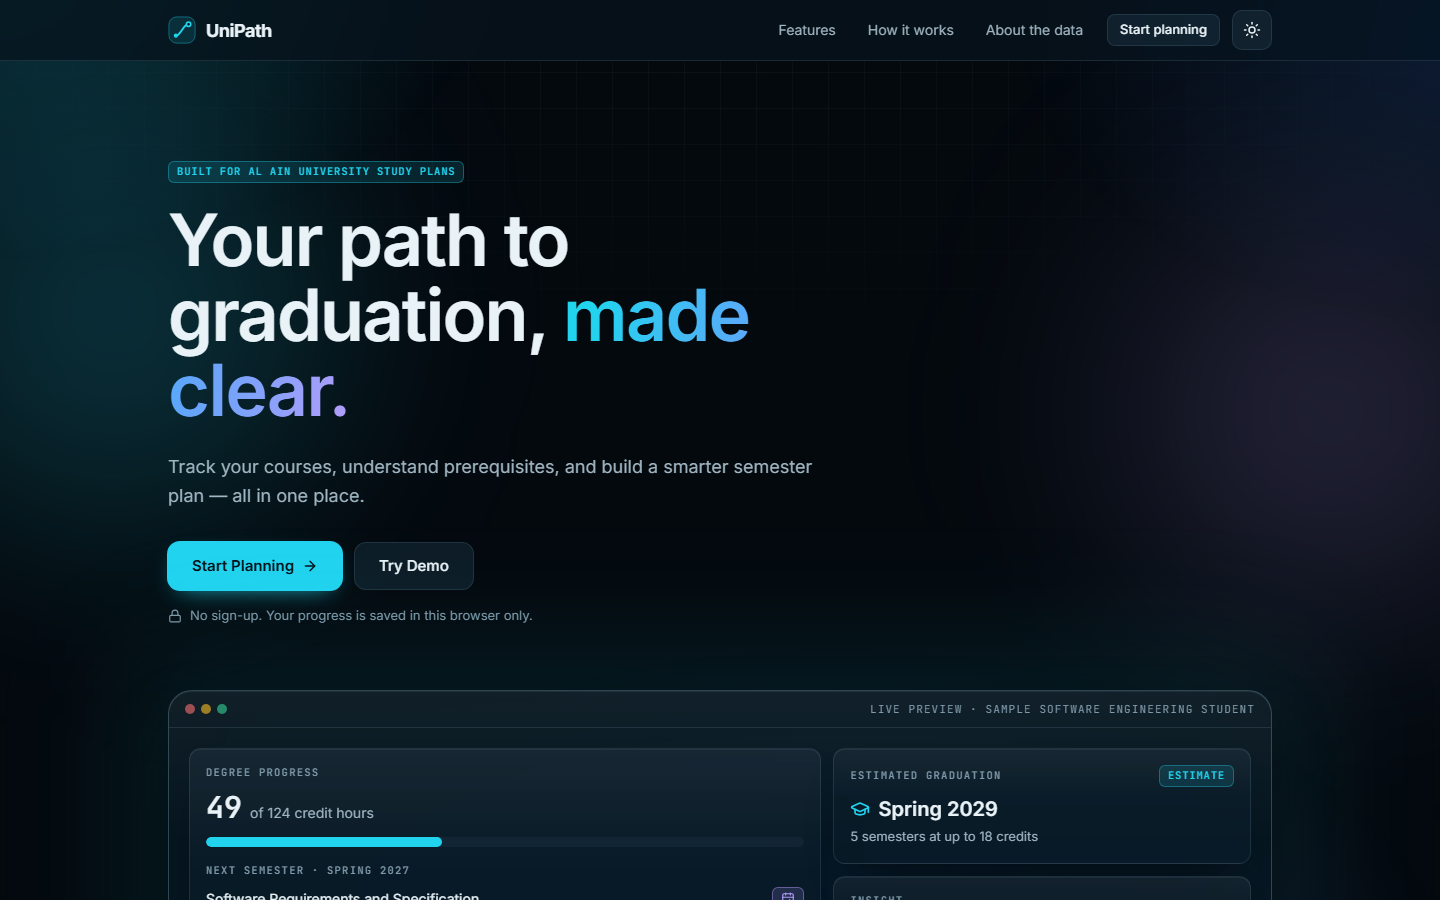
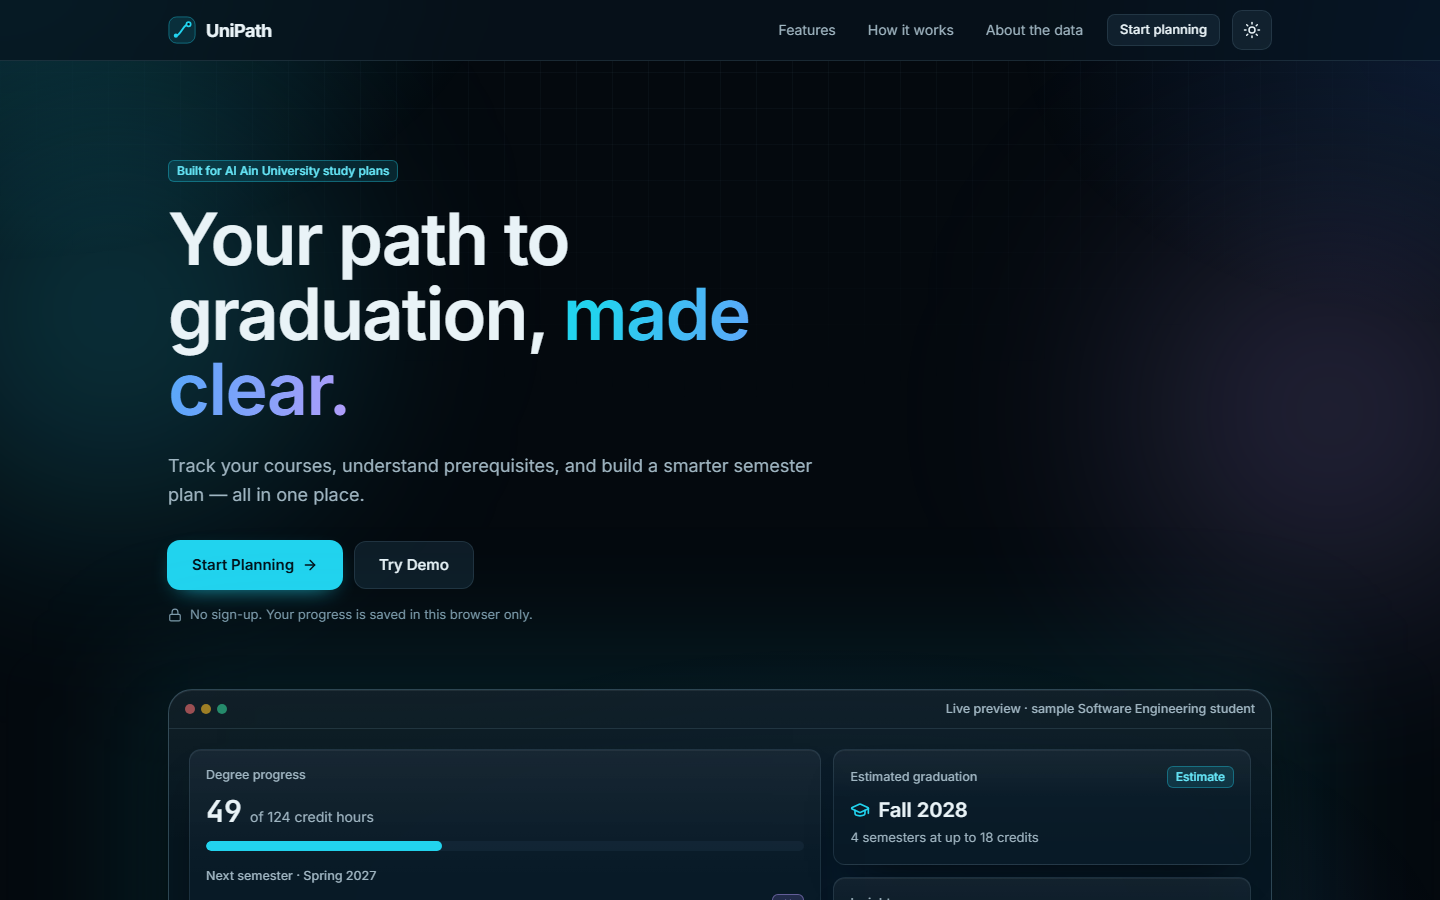
Fix the README screenshot layout and refresh the screenshots
The phone shot was a full-page capture in the same row as two desktop
shots, which stretched the row. Phone captures are now one screen tall
and shown side by side, desktop shots sit in a 2x2 grid of equal sizes,
and every screenshot is retaken from the current UI on a fixed morning.

diff --git a/e2e/screenshots.spec.ts b/e2e/screenshots.spec.ts
@@ -1,11 +1,16 @@
-import { expect, test } from "@playwright/test";
+import { expect, test, type Page } from "@playwright/test";
 
-// Captures submission screenshots into docs/screenshots. Run with: SCREENSHOTS=1 npx playwright test screenshots
+// Captures the README screenshots into docs/screenshots. Run with: SCREENSHOTS=1 npx playwright test screenshots
 test.skip(!process.env.SCREENSHOTS, "Set SCREENSHOTS=1 to capture screenshots");
 
-const pages = [
-  { name: "landing", path: "/" },
-  { name: "overview", path: "/overview" },
+// A Monday morning in Al Ain, so the sample student's day is still ahead of them and every capture shows the same day.
+const MORNING = new Date("2026-10-26T07:40:00+04:00");
+test.use({ timezoneId: "Asia/Dubai" });
+
+const desktopPages = [
+  { name: "home", path: "/overview" },
+  { name: "calendar", path: "/calendar" },
+  { name: "tasks", path: "/tasks" },
   { name: "courses", path: "/courses" },
   { name: "planner", path: "/planner" },
   { name: "roadmap", path: "/planner#roadmap" },
@@ -13,38 +18,56 @@ const pages = [
   { name: "gpa", path: "/gpa" },
 ];
 
-for (const viewport of [
-  { label: "desktop", width: 1440, height: 900 },
-  { label: "mobile", width: 390, height: 844 },
-]) {
-  test(`screenshots ${viewport.label}`, async ({ page }) => {
-    await page.setViewportSize({ width: viewport.width, height: viewport.height });
-    await page.goto("/demo");
-    await expect(page).toHaveURL(/\/overview$/);
-    for (const p of pages) {
-      await page.goto(p.path);
-      await page.waitForLoadState("networkidle");
-      await page.waitForTimeout(400);
-      const overflow = await page.evaluate(() => document.documentElement.scrollWidth - window.innerWidth);
-      expect(overflow, `${p.name} scrolls sideways`).toBeLessThanOrEqual(1);
-      await page.screenshot({ path: `docs/screenshots/${viewport.label}-${p.name}.png`, fullPage: viewport.label === "mobile" });
-    }
-    await page.goto("/planner#what-if");
-    await page.getByRole("button", { name: "Lighter load (12 credits)" }).click();
-    await page.waitForTimeout(300);
-    await page.screenshot({ path: `docs/screenshots/${viewport.label}-what-if.png`, fullPage: viewport.label === "mobile" });
-  });
+// Phone captures are one screen tall, so they line up side by side in the README.
+const mobilePages = [
+  { name: "home", path: "/overview" },
+  { name: "calendar", path: "/calendar" },
+  { name: "tasks", path: "/tasks" },
+  { name: "planner", path: "/planner" },
+];
+
+async function enterDemo(page: Page) {
+  await page.clock.install({ time: MORNING });
+  await page.goto("/demo");
+  await expect(page).toHaveURL(/\/overview$/);
 }
+
+async function capture(page: Page, path: string, file: string, before?: () => Promise<void>) {
+  await page.goto(path);
+  await page.waitForLoadState("networkidle");
+  if (before) await before();
+  // The demo notice is covered by the README text; leave it out of the pictures.
+  await page.evaluate(() => {
+    for (const el of document.querySelectorAll("div.border-b")) {
+      if (el.textContent?.includes("Demo mode.")) (el as HTMLElement).style.display = "none";
+    }
+  });
+  await page.mouse.move(0, 0);
+  await page.waitForTimeout(400);
+  const overflow = await page.evaluate(() => document.documentElement.scrollWidth - window.innerWidth);
+  expect(overflow, `${file} scrolls sideways`).toBeLessThanOrEqual(1);
+  await page.screenshot({ path: `docs/screenshots/${file}.png` });
+}
+
+test("screenshots desktop", async ({ page }) => {
+  await page.setViewportSize({ width: 1440, height: 900 });
+  await capture(page, "/", "desktop-landing");
+  await enterDemo(page);
+  for (const p of desktopPages) await capture(page, p.path, `desktop-${p.name}`);
+  await capture(page, "/planner#what-if", "desktop-what-if", () =>
+    page.getByRole("button", { name: "Lighter load (12 credits)" }).click(),
+  );
+});
+
+test("screenshots mobile", async ({ page }) => {
+  await page.setViewportSize({ width: 390, height: 844 });
+  await enterDemo(page);
+  for (const p of mobilePages) await capture(page, p.path, `mobile-${p.name}`);
+});
 
 test("screenshots light theme", async ({ page }) => {
   await page.setViewportSize({ width: 1440, height: 900 });
   await page.addInitScript(() => localStorage.setItem("unipath:theme", "light"));
-  await page.goto("/demo");
-  await expect(page).toHaveURL(/\/overview$/);
-  for (const p of [pages[0], pages[1], pages[5]]) {
-    await page.goto(p.path);
-    await page.waitForLoadState("networkidle");
-    await page.waitForTimeout(400);
-    await page.screenshot({ path: `docs/screenshots/light-${p.name}.png` });
-  }
+  await enterDemo(page);
+  for (const p of [desktopPages[0], desktopPages[6]]) await capture(page, p.path, `light-${p.name}`);
 });

diff --git a/README.md b/README.md
@@ -8,11 +8,20 @@ Built for **NextSpark Hacks 2026**. No account and no paid services. Everything 
 
 **Live demo: https://unipath-eight-peach.vercel.app** — click **Try Demo** to explore a sample student.
 
-![UniPath overview for the sample student](docs/screenshots/desktop-overview.png)
+![UniPath Home for the sample student: today's classes, priorities and degree progress](docs/screenshots/desktop-home.png)
 
-| Semester roadmap | What if? | Phone |
-| --- | --- | --- |
-| ![Roadmap](docs/screenshots/desktop-roadmap.png) | ![What-if simulator](docs/screenshots/desktop-what-if.png) | ![Overview on a phone](docs/screenshots/mobile-overview.png) |
+| Calendar | Assignments and exams |
+| --- | --- |
+| ![Calendar with classes, deadlines, exams and events](docs/screenshots/desktop-calendar.png) | ![Assignments and exams ranked by urgency](docs/screenshots/desktop-tasks.png) |
+| **Degree map** | **What if?** |
+| ![Interactive prerequisite map](docs/screenshots/desktop-map.png) | ![What-if simulator comparing graduation dates](docs/screenshots/desktop-what-if.png) |
+
+<p align="center">
+  <img src="docs/screenshots/mobile-home.png" width="24%" alt="Home on a phone">
+  <img src="docs/screenshots/mobile-calendar.png" width="24%" alt="Calendar on a phone">
+  <img src="docs/screenshots/mobile-tasks.png" width="24%" alt="Assignments and exams on a phone">
+  <img src="docs/screenshots/mobile-planner.png" width="24%" alt="Semester planner on a phone">
+</p>
 
 > UniPath is an independent student project. It is not affiliated with or endorsed by Al Ain University. Course data is transcribed from publicly available study plans and may contain mistakes — always confirm your plan with your academic advisor.
 

diff --git a/SUBMISSION_CHECKLIST.md b/SUBMISSION_CHECKLIST.md
@@ -7,7 +7,7 @@ Legend: ✅ done in the repository · ⬜ needs the team
 - ✅ **Public GitHub repository** — https://github.com/bilal-feroz/Unipath (⬜ confirm the repository visibility is set to *Public* in GitHub settings)
 - ✅ **Setup instructions** — README → *Getting started*. Verified locally: `npm install`, `npm run build`, `npm start`, plus the full test suites.
 - ⬜ **1–3 minute demo video** — follow [DEMO_SCRIPT.md](DEMO_SCRIPT.md), record, upload (e.g. YouTube unlisted), add the link to DEVPOST.md.
-- ✅ **At least one screenshot** — `docs/screenshots/` (desktop and mobile captures of every screen, regenerate with `SCREENSHOTS=1 npx playwright test screenshots`).
+- ✅ **At least one screenshot** — `docs/screenshots/` (desktop and phone captures of the main screens, regenerate with `SCREENSHOTS=1 npx playwright test screenshots`).
 - ✅ **Project description** — [DEVPOST.md](DEVPOST.md) draft. ⬜ Fill in every **[TEAM]** placeholder (inspiration, personal challenges, what you learned, data review).
 - ✅ **Technologies and AI disclosure** — README, DEVPOST.md and CREDITS.md.
 
